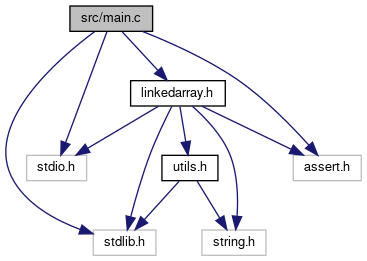
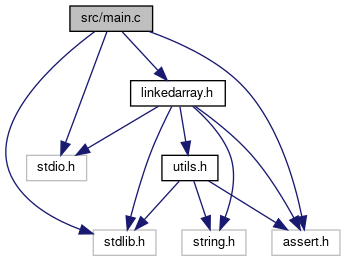
deploy: deb9935371cedc0ba78109f0c0ff9bd92224523d

diff --git a/test__linkedarray_8h.html b/test__linkedarray_8h.html
@@ -80,14 +80,14 @@ Include dependency graph for test_linkedarray.h:</div>
 <div class="dyncontent">
 <div class="center"><img src="test__linkedarray_8h__incl.png" border="0" usemap="#atest_2test__linkedarray_8h" alt=""/></div>
 <map name="atest_2test__linkedarray_8h" id="atest_2test__linkedarray_8h">
-<area shape="rect" title=" " alt="" coords="77,5,226,32"/>
-<area shape="rect" href="linkedarray_8h.html" title="Unrolled linked list for finding K&#45;least element." alt="" coords="104,80,199,107"/>
+<area shape="rect" title=" " alt="" coords="69,5,218,32"/>
+<area shape="rect" href="linkedarray_8h.html" title="Unrolled linked list for finding K&#45;least element." alt="" coords="96,80,191,107"/>
 <area shape="rect" title=" " alt="" coords="5,229,68,256"/>
-<area shape="rect" title=" " alt="" coords="223,80,280,107"/>
-<area shape="rect" title=" " alt="" coords="248,155,308,181"/>
-<area shape="rect" title=" " alt="" coords="75,155,143,181"/>
-<area shape="rect" title=" " alt="" coords="238,229,302,256"/>
-<area shape="rect" href="utils_8h.html" title="General Utilities for C language." alt="" coords="167,155,223,181"/>
+<area shape="rect" title=" " alt="" coords="215,80,272,107"/>
+<area shape="rect" title=" " alt="" coords="155,155,215,181"/>
+<area shape="rect" title=" " alt="" coords="135,229,203,256"/>
+<area shape="rect" title=" " alt="" coords="249,229,313,256"/>
+<area shape="rect" href="utils_8h.html" title="General Utilities for C language." alt="" coords="74,155,130,181"/>
 </map>
 </div>
 </div>

diff --git a/linkedarray_8h.html b/linkedarray_8h.html
@@ -87,12 +87,12 @@ Include dependency graph for linkedarray.h:</div>
 <div class="dyncontent">
 <div class="center"><img src="linkedarray_8h__incl.png" border="0" usemap="#asrc_2linkedarray_8h" alt=""/></div>
 <map name="asrc_2linkedarray_8h" id="asrc_2linkedarray_8h">
-<area shape="rect" title="Unrolled linked list for finding K&#45;least element." alt="" coords="117,5,233,32"/>
+<area shape="rect" title="Unrolled linked list for finding K&#45;least element." alt="" coords="96,5,212,32"/>
 <area shape="rect" title=" " alt="" coords="5,80,65,107"/>
-<area shape="rect" title=" " alt="" coords="140,155,203,181"/>
-<area shape="rect" title=" " alt="" coords="141,80,209,107"/>
-<area shape="rect" title=" " alt="" coords="262,155,326,181"/>
-<area shape="rect" href="utils_8h.html" title="General Utilities for C language." alt="" coords="234,80,290,107"/>
+<area shape="rect" title=" " alt="" coords="72,155,135,181"/>
+<area shape="rect" title=" " alt="" coords="159,155,227,181"/>
+<area shape="rect" title=" " alt="" coords="251,155,315,181"/>
+<area shape="rect" href="utils_8h.html" title="General Utilities for C language." alt="" coords="191,80,247,107"/>
 </map>
 </div>
 </div><div class="textblock"><div class="dynheader">

diff --git a/utils_8h.html b/utils_8h.html
@@ -75,16 +75,18 @@ $(function() {
 
 <p>General Utilities for C language.  
 <a href="#details">More...</a></p>
-<div class="textblock"><code>#include &lt;stdlib.h&gt;</code><br />
+<div class="textblock"><code>#include &lt;assert.h&gt;</code><br />
+<code>#include &lt;stdlib.h&gt;</code><br />
 <code>#include &lt;string.h&gt;</code><br />
 </div><div class="textblock"><div class="dynheader">
 Include dependency graph for utils.h:</div>
 <div class="dyncontent">
 <div class="center"><img src="utils_8h__incl.png" border="0" usemap="#asrc_2utils_8h" alt=""/></div>
 <map name="asrc_2utils_8h" id="asrc_2utils_8h">
-<area shape="rect" title="General Utilities for C language." alt="" coords="41,5,120,32"/>
-<area shape="rect" title=" " alt="" coords="5,80,68,107"/>
-<area shape="rect" title=" " alt="" coords="93,80,157,107"/>
+<area shape="rect" title="General Utilities for C language." alt="" coords="89,5,168,32"/>
+<area shape="rect" title=" " alt="" coords="5,80,73,107"/>
+<area shape="rect" title=" " alt="" coords="97,80,160,107"/>
+<area shape="rect" title=" " alt="" coords="185,80,249,107"/>
 </map>
 </div>
 </div><div class="textblock"><div class="dynheader">

diff --git a/utils_8h_source.html b/utils_8h_source.html
@@ -73,7 +73,7 @@ $(function() {
 <div class="line"><a name="l00011"></a><span class="lineno">   11</span>&#160;<span class="preprocessor">#ifndef UTILS_H</span></div>
 <div class="line"><a name="l00012"></a><span class="lineno">   12</span>&#160;<span class="preprocessor">#define UTILS_H</span></div>
 <div class="line"><a name="l00013"></a><span class="lineno">   13</span>&#160; </div>
-<div class="line"><a name="l00014"></a><span class="lineno">   14</span>&#160;<span class="comment">//#include &lt;assert.h&gt;</span></div>
+<div class="line"><a name="l00014"></a><span class="lineno">   14</span>&#160;<span class="preprocessor">#include &lt;assert.h&gt;</span></div>
 <div class="line"><a name="l00015"></a><span class="lineno">   15</span>&#160;<span class="preprocessor">#include &lt;stdlib.h&gt;</span></div>
 <div class="line"><a name="l00016"></a><span class="lineno">   16</span>&#160;<span class="preprocessor">#include &lt;string.h&gt;</span></div>
 <div class="line"><a name="l00017"></a><span class="lineno">   17</span>&#160; </div>

diff --git a/main_8c.html b/main_8c.html
@@ -87,8 +87,8 @@ Include dependency graph for main.c:</div>
 <area shape="rect" title=" " alt="" coords="27,155,87,181"/>
 <area shape="rect" title=" " alt="" coords="93,229,156,256"/>
 <area shape="rect" href="linkedarray_8h.html" title="Unrolled linked list for finding K&#45;least element." alt="" coords="131,80,225,107"/>
-<area shape="rect" title=" " alt="" coords="293,155,361,181"/>
-<area shape="rect" title=" " alt="" coords="202,229,266,256"/>
+<area shape="rect" title=" " alt="" coords="272,229,340,256"/>
+<area shape="rect" title=" " alt="" coords="182,229,246,256"/>
 <area shape="rect" href="utils_8h.html" title="General Utilities for C language." alt="" coords="162,155,218,181"/>
 </map>
 </div>

diff --git a/test__utils_8h.html b/test__utils_8h.html
@@ -84,8 +84,9 @@ Include dependency graph for test_utils.h:</div>
 <area shape="rect" title="Test utility functions." alt="" coords="31,5,142,32"/>
 <area shape="rect" title=" " alt="" coords="5,80,80,107"/>
 <area shape="rect" href="utils_8h.html" title="General Utilities for C language." alt="" coords="104,80,160,107"/>
-<area shape="rect" title=" " alt="" coords="57,155,119,181"/>
-<area shape="rect" title=" " alt="" coords="144,155,208,181"/>
+<area shape="rect" title=" " alt="" coords="9,155,77,181"/>
+<area shape="rect" title=" " alt="" coords="101,155,163,181"/>
+<area shape="rect" title=" " alt="" coords="188,155,252,181"/>
 </map>
 </div>
 </div>
